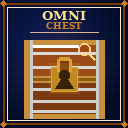
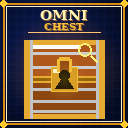
feature: アイコンの描画改善と設定画面のヘッダー拡大

diff --git a/fabric/src/client/java/com/kajiwara/omnichest/client/render/ChestHighlighter.java b/fabric/src/client/java/com/kajiwara/omnichest/client/render/ChestHighlighter.java
@@ -22,6 +22,7 @@ import net.minecraft.client.renderer.item.ItemModelResolver;
 import net.minecraft.client.renderer.item.ItemStackRenderState;
 import net.minecraft.client.renderer.rendertype.RenderSetup;
 import net.minecraft.client.renderer.rendertype.RenderType;
+import net.minecraft.client.renderer.rendertype.RenderTypes;
 import net.minecraft.client.renderer.state.CameraRenderState;
 import net.minecraft.client.renderer.texture.OverlayTexture;
 import net.minecraft.core.BlockPos;
@@ -514,7 +515,6 @@ public final class ChestHighlighter {
         // アイテム アイコン解決用 (= バニラのアイテム描画パイプラインに乗せる)。
         Minecraft mc = Minecraft.getInstance();
         ItemModelResolver itemModelResolver = mc.getItemModelResolver();
-        net.minecraft.client.multiplayer.ClientLevel level = mc.level;
 
         matrices.pushPose();
         try {
@@ -537,14 +537,31 @@ public final class ChestHighlighter {
                 float rowY = -(rowIndex + 1) * (float) rowSpacing + 1.0f;
 
                 Component body = entryTexts[i];
-                // アイコン描画用に独立 push (item 描画は内部で pose を変えるため隔離)。
                 HighlightEntry e = entries.get(i);
-                submitPinIcon(matrices, queue, itemModelResolver, level,
+
+                // ─── 行頭 (= アイコン位置) の黒帯背景 ───
+                //
+                // submitText に bg を渡すと「テキストのちょうど後ろ」 にしか黒帯が出ないため、
+                // 行頭のアイテム アイコンの後ろは素通しになってしまっていた。
+                // ここで「アイコン領域 + ギャップ + テキスト bg と 1px 重ね」 を覆う bg 四角を
+                // submitCustomGeometry + textBackgroundSeeThrough で先に出して、
+                // 「アイコン → テキスト」が 1 本の黒帯に乗っているように見せる。
+                //
+                // X 範囲: leftX-1 .. textX+1 (テキスト bg は textX-1 から始まる想定で 2px 重ねる)
+                // Y 範囲: rowY-1 .. rowY+lineHeight-1 (= MC 標準のテキスト bg の縦範囲と一致)
+                float textX = entryBlockLeftX + entryIconSize + entryIconGap;
+                submitPinRowBg(matrices, queue,
+                        entryBlockLeftX - 1, rowY - 1,
+                        (textX + 1) - (entryBlockLeftX - 1),
+                        (float) lineHeight,
+                        PIN_BG_ARGB);
+
+                // アイコン描画用に独立 push (item 描画は内部で pose を変えるため隔離)。
+                submitPinIcon(matrices, queue, itemModelResolver,
                         e.stack, entryBlockLeftX, rowY, entryIconSize);
 
                 // テキストはアイコンの右隣 (icon size + gap だけずらす)。
                 FormattedCharSequence seq = body.getVisualOrderText();
-                float textX = entryBlockLeftX + entryIconSize + entryIconGap;
                 queue.submitText(matrices, textX, rowY, seq,
                         false, Font.DisplayMode.SEE_THROUGH,
                         0xF000F0, 0xFFFFFFFF, PIN_BG_ARGB, 0);
@@ -572,24 +589,26 @@ public final class ChestHighlighter {
      * Z 方向には微小に手前 (+Z) へ寄せて、 同じ pose 内でテキスト背景と Z-fight するのを避ける。
      *
      * <p>
-     * {@link ItemDisplayContext#GUI} を選んだ理由: 「2D アイコンを 1 枚ペタッと貼る」描画になる。
-     * GROUND など他の context は 3D モデルが回って見え、 「アイコン横並び」用途には不向き。
+     * <b>解決メソッドの選び方 (= 「インベントリと同じ見た目」 のため)</b>:
+     * バニラ {@code GuiGraphics.renderItem} は内部で
+     * {@code ItemModelResolver.updateForTopItem(state, stack, ItemDisplayContext.GUI,
+     * level, player, 0)} を呼んでいる (= バイトコード確認済み)。
+     * 旧実装は {@code updateForNonLiving + FIXED} (= アイテム フレーム用) を使っており、
+     * 木材のように形は出るが <b>テクスチャの 2D 投影</b> がインベントリと違う
+     * ("立体的に転がった" ように見える) ため、 「インベントリと同じ平面アイコン」 にならない。
+     * GUI context + updateForTopItem に揃えれば、 インベントリの 1 スロットを切り取って
+     * ワールドにビルボード貼ったような見た目になる。
      */
     private static void submitPinIcon(PoseStack matrices, SubmitNodeCollector queue,
             ItemModelResolver itemModelResolver,
-            net.minecraft.client.multiplayer.ClientLevel level,
             ItemStack stack, float leftX, float topY, int iconSize) {
         if (stack == null || stack.isEmpty() || itemModelResolver == null) return;
         ItemStackRenderState state = new ItemStackRenderState();
-        // ─── DisplayContext は FIXED を使う ───
-        // 旧 GUI 指定では、 アイテム アトラス テクスチャが GUI 描画パイプライン専用に
-        // バインドされる前提でレンダリングされ、 ワールド描画 (= SubmitNodeCollector) 経由では
-        // テクスチャが当たらず真っ白なジオメトリだけが出ていた。
-        // FIXED はアイテム フレームと同じ「平面 2D 風」 をワールドで描く前提のコンテキストで、
-        // SubmitNodeCollector でもテクスチャが正しく当たる。
-        // owner には mc.player を渡す (= バニラの GuiGraphics.renderItem も player を owner にしている)。
         net.minecraft.client.player.LocalPlayer player = Minecraft.getInstance().player;
-        itemModelResolver.updateForTopItem(state, stack, ItemDisplayContext.FIXED,
+        if (player == null) return;
+        net.minecraft.world.level.Level level = player.level();
+        if (level == null) return;
+        itemModelResolver.updateForTopItem(state, stack, ItemDisplayContext.GUI,
                 level, player, 0);
         if (state.isEmpty()) return;
 
@@ -605,10 +624,51 @@ public final class ChestHighlighter {
             //   アイテム ジオメトリは 1 単位幅 → scale(iconSize) で iconSize ピクセル幅。
             //   Y 反転は GUI item 描画の慣例 (バニラ GuiGraphics と同様)。
             matrices.scale((float) iconSize, -(float) iconSize, (float) iconSize);
-            state.submit(matrices, queue, 0xF000F0, OverlayTexture.NO_OVERLAY, 0xFFFFFFFF);
+            // ★ submit の第5引数は 「アイテムを覆う tint カラー」 ではなく <b>outlineColor</b>
+            //   (= SubmitNodeStorage$ItemSubmit のフィールド名がそうなっている)。
+            //   非 0 を渡すと光ったアイテムの「縁取りシルエット」 パスが走り、 アイテム本体の上に
+            //   そのカラーのべた塗りシルエットが被さる。 旧コードで 0xFFFFFFFF を渡していたのが
+            //   「真っ白なアイテム」の正体 (= 白縁取りシルエットが全体を塗りつぶしていた)。
+            //   通常描画 (= 縁取りなし) は 0 を渡す。
+            state.submit(matrices, queue, 0xF000F0, OverlayTexture.NO_OVERLAY, 0);
         } finally {
             matrices.popPose();
         }
+    }
+
+    /**
+     * ピン行頭 (= アイコンを置く領域) に「テキスト bg と同色 / 同じ blend モード」 の四角を出す。
+     *
+     * <p>
+     * {@link SubmitNodeCollector#submitText} が描く bg はテキスト文字列の rect しか覆わないので、
+     * その左に並ぶアイテム アイコン領域の後ろは素通しになっていた。
+     * これを補うため、 {@link RenderTypes#textBackgroundSeeThrough()} の RenderType で
+     * カスタム ジオメトリの四角を直接 submit する。
+     * <ul>
+     *   <li>テキスト bg と同じ shader を使うので blend / depth の振る舞いが揃う
+     *       (= SEE_THROUGH = ブロック越しでも見える)。</li>
+     *   <li>頂点フォーマットは {@code POSITION_COLOR_LIGHTMAP} のため
+     *       {@code .setColor + .setLight(0xF000F0)} で十分 (= 法線 / テクスチャ不要)。</li>
+     * </ul>
+     *
+     * <p>
+     * 与える矩形は <b>原点起点</b> (= 呼び出し側が matrices を pin の billboard pose に揃えた状態)
+     * で、 x は右、 y は下が正、 z は手前 (worldScale で -Y 反転済み)。
+     */
+    private static void submitPinRowBg(PoseStack matrices, SubmitNodeCollector queue,
+            float x, float y, float width, float height, int argb) {
+        final float x1 = x;
+        final float y1 = y;
+        final float x2 = x + width;
+        final float y2 = y + height;
+        queue.submitCustomGeometry(matrices, RenderTypes.textBackgroundSeeThrough(),
+                (pose, consumer) -> {
+                    // テキスト bg と同じ z=0 平面に置く (= submitText の bg と Z fight しない)。
+                    consumer.addVertex(pose, x1, y1, 0).setColor(argb).setLight(0xF000F0);
+                    consumer.addVertex(pose, x1, y2, 0).setColor(argb).setLight(0xF000F0);
+                    consumer.addVertex(pose, x2, y2, 0).setColor(argb).setLight(0xF000F0);
+                    consumer.addVertex(pose, x2, y1, 0).setColor(argb).setLight(0xF000F0);
+                });
     }
 
     // ════════════════════════════════════════════════════════════════════

diff --git a/fabric/src/client/java/com/kajiwara/omnichest/config/gui/widget/NavyFooterButton.java b/fabric/src/client/java/com/kajiwara/omnichest/config/gui/widget/NavyFooterButton.java
@@ -1,5 +1,6 @@
 package com.kajiwara.omnichest.config.gui.widget;
 
+import net.minecraft.ChatFormatting;
 import net.minecraft.client.Minecraft;
 import net.minecraft.client.gui.Font;
 import net.minecraft.client.gui.GuiGraphics;
@@ -21,18 +22,23 @@ import net.minecraft.network.chat.Component;
  */
 public final class NavyFooterButton extends Button {
 
-    /** 通常時の紺塗り (= 設定ヘッダ {@code COLOR_CHEST_WOOD} と同色)。 hover でも色は変えない。 */
-    private static final int COLOR_BG = 0xFF0D1B3D;
-    /** 通常時の縁取り (= 黒紺で締める)。 */
-    private static final int COLOR_OUTLINE = 0xFF050B1F;
     /**
-     * ホバー時の縁取り色: 文字と揃えた黄金。
-     * ホバーで「背景を明るくする」 旧挙動を止め、 ラベルと同じ黄金の縁を出すことで
-     * 反応を伝える (= 全体トーンを変えずアクセント色だけで強調)。
+     * 通常時の紺塗り。
+     *
+     * <p>
+     * 値はユーザー指定の濃紺サンプル ({@code RGB(13, 26, 53) = #0D1A35}) を採用。
+     * ヘッダ バナー ({@code OmniChestSettingsScreen#COLOR_CHEST_WOOD = 0xFF0D1B3D}) と
+     * <b>異なる</b> 一段暗い紺にすることで、 タイトル バナーとフッタ ボタンが別パネルとして
+     * 視認できるようにする (= 旧版で両者を同色にしたところ「ボタンの色をヘッダと変えてほしい」
+     * とフィードバックがあったため)。
      */
-    private static final int COLOR_OUTLINE_HOVER = 0xFFFFD700;
-    /** ラベル色 (= 黄金、 設定タイトル文字色と統一)。 */
-    private static final int COLOR_TEXT = 0xFFFFD700;
+    private static final int COLOR_NAVY = 0xFF0D1A35;
+    /**
+     * 縁取りは <b>常に</b> 黄金で出す (= 旧「黒紺 → ホバーで黄金」の段階的強調を廃止)。
+     * 黄金枠は通常 / ホバー どちらでも変えず、 ホバー時は中身の色 (背景 ↔ 文字) を反転させて
+     * 「インバート」 表現で反応を伝える。
+     */
+    private static final int COLOR_GOLD = 0xFFFFD700;
 
     public NavyFooterButton(int x, int y, int w, int h, Component label, OnPress onPress) {
         super(x, y, w, h, label, onPress, DEFAULT_NARRATION);
@@ -40,30 +46,33 @@ public final class NavyFooterButton extends Button {
 
     @Override
     protected void renderContents(GuiGraphics g, int mouseX, int mouseY, float partialTick) {
-        // バニラの renderDefaultSprite が描いたスプライトを完全に上書きする。
-        // (= alpha 0xFF で不透過。 紺の単色面を被せる。 hover でも色は変えない)
         int x = this.getX();
         int y = this.getY();
         int w = this.getWidth();
         int h = this.getHeight();
-        g.fill(x, y, x + w, y + h, COLOR_BG);
-
-        // 縁取り: 通常は黒紺、 ホバー時のみ「文字と同じ黄金」で 1 段太く描いて反応を伝える。
         boolean hover = this.isHoveredOrFocused();
-        if (hover) {
-            // 黄金縁 2 重 (= 内側 1 px + 外側 1 px) で太く見せる。
-            g.renderOutline(x, y, w, h, COLOR_OUTLINE_HOVER);
-            g.renderOutline(x - 1, y - 1, w + 2, h + 2, COLOR_OUTLINE_HOVER);
-        } else {
-            g.renderOutline(x, y, w, h, COLOR_OUTLINE);
-        }
 
-        // ラベルを中央に描画。 黄金 + 影付きでコントラスト確保。
+        // ホバー時は前景 / 背景を反転させる (= インバート)。
+        // 通常: 紺塗り + 黄金文字
+        // ホバ: 黄金塗り + 紺文字
+        int bg = hover ? COLOR_GOLD : COLOR_NAVY;
+        int textColor = hover ? COLOR_NAVY : COLOR_GOLD;
+
+        // バニラの renderDefaultSprite が描いたボタン素地を完全に上書きする
+        // (= alpha 0xFF で不透過)。
+        g.fill(x, y, x + w, y + h, bg);
+
+        // 縁取りは <b>常に</b> 黄金 1 重。 hover でも線種は変えない (= 「ホバー枠が増える」 旧挙動は廃止)。
+        g.renderOutline(x, y, w, h, COLOR_GOLD);
+
+        // ラベル描画。 影は通常時のみ (= ホバー時の黄金背景上で影を出すと汚くなるのでカット)。
+        // 太字: 「Reset / Save / Cancel」 は重要操作なので BOLD スタイルで強調する。
+        //       ChatFormatting.BOLD はバニラ Font 側で多言語 (Latin/CJK) 共に太字グリフを出す。
         Font font = Minecraft.getInstance().font;
-        Component msg = this.getMessage();
+        Component msg = this.getMessage().copy().withStyle(ChatFormatting.BOLD);
         int tw = font.width(msg);
         int textX = x + (w - tw) / 2;
         int textY = y + (h - 8) / 2;
-        g.drawString(font, msg, textX, textY, COLOR_TEXT, true);
+        g.drawString(font, msg, textX, textY, textColor, !hover);
     }
 }

diff --git a/fabric/src/client/java/com/kajiwara/omnichest/config/gui/OmniChestSettingsScreen.java b/fabric/src/client/java/com/kajiwara/omnichest/config/gui/OmniChestSettingsScreen.java
@@ -76,7 +76,9 @@ public final class OmniChestSettingsScreen extends Screen {
     /** グループ ヘッダの「上に開ける余白」(= 直前のグループとの間の空白行)。 */
     private static final int GROUP_HEADER_TOP_GAP = 6;
     /** ヘッダ (= 木目バナーを置く領域) の高さ (px)。 */
-    private static final int HEADER_HEIGHT = 38;
+    private static final int HEADER_HEIGHT = 48;
+    /** タイトル文字の拡大倍率 (= フォントを {@code n}倍にスケールして描画する)。 */
+    private static final float HEADER_TITLE_SCALE = 1.6f;
     /** フッタ (= Save / Cancel / Reset ボタン) の高さ (px)。 */
     private static final int FOOTER_HEIGHT = 36;
     /** コンテンツ領域とサイドバーの間に空ける余白 (px)。 */
@@ -141,9 +143,8 @@ public final class OmniChestSettingsScreen extends Screen {
      *
      * <p>
      * フッタ ボタン ({@link com.kajiwara.omnichest.config.gui.widget.NavyFooterButton}) の紺
-     * ({@code 0xFF0D1B3D}) <b>より暗い</b> 紺を使うことで、 ボタンと背景帯が同じ紺系統で
+     * <b>より暗い</b> 紺を使うことで、 ボタンと背景帯が同じ紺系統で
      * グラデーションのように重なり、 ボタンが浮き出て見える。
-     * 旧 {@code 0xFF111111} (濃灰) は紺系ボタンと合わない違和感があったので置き換えた。
      */
     private static final int COLOR_FOOTER_BG = 0xFF03081A;
 
@@ -534,10 +535,14 @@ public final class OmniChestSettingsScreen extends Screen {
      */
     private void renderChestHeader(GuiGraphics g) {
         Font font = this.font;
-        int titleW = font.width(this.title);
-        // バナーの内側 (鉄帯の内側) の幅は タイトル幅 + 余白 60 px。 最小幅 220 px。
-        int innerW = Math.max(220, titleW + 60);
-        int innerH = 20;
+        // 太字 + 拡大表示するので、 バナー サイズ計算は スケール後 の幅 / 高さ で行う。
+        Component boldTitle = this.title.copy().withStyle(ChatFormatting.BOLD);
+        int rawTitleW = font.width(boldTitle);
+        int scaledTitleW = Math.round(rawTitleW * HEADER_TITLE_SCALE);
+        int scaledTitleH = Math.round(8 * HEADER_TITLE_SCALE);
+        // バナーの内側 (鉄帯の内側) の幅は タイトル幅 + 余白 80 px。 最小幅 240 px。
+        int innerW = Math.max(240, scaledTitleW + 80);
+        int innerH = scaledTitleH + 8;
         int rim = 2; // 鉄帯の厚み
         int totalW = innerW + rim * 2;
         int totalH = innerH + rim * 2;
@@ -572,10 +577,18 @@ public final class OmniChestSettingsScreen extends Screen {
         g.fill(lockX - 2, lockY, lockX + 2, lockY + 4, COLOR_CHEST_LOCK);
         g.fill(lockX - 1, lockY - 2, lockX + 1, lockY, COLOR_CHEST_LOCK);
 
-        // ─── 5) タイトル文字を中央に (= 影付きで読みやすく) ───
-        int textX = x + (totalW - titleW) / 2;
-        int textY = y + (totalH - 8) / 2;
-        g.drawString(font, this.title, textX, textY, COLOR_CHEST_LOCK, true);
+        // ─── 5) タイトル文字を中央に (= 太字 + 拡大 + 影付き) ───
+        // Matrix3x2fStack で scale を掛けて描画する。 翻訳後にスケールする標準パターン:
+        //   translate(centerX, centerY) → scale(s, s) → drawString(-rawW/2, -8/2)
+        // とすると、 (centerX, centerY) を中心とした s 倍の文字描画になる。
+        int cx = x + totalW / 2;
+        int cy = y + totalH / 2;
+        g.pose().pushMatrix();
+        g.pose().translate(cx, cy);
+        g.pose().scale(HEADER_TITLE_SCALE, HEADER_TITLE_SCALE);
+        g.drawString(font, boldTitle, -rawTitleW / 2, -4 /* font height 8 / 2 */,
+                COLOR_CHEST_LOCK, true);
+        g.pose().popMatrix();
 
         // ─── 6) バナー下に区切り線 (= サイドバー / コンテンツとの境界) ───
         g.fill(0, HEADER_HEIGHT - 1, this.width, HEADER_HEIGHT, COLOR_SEP);